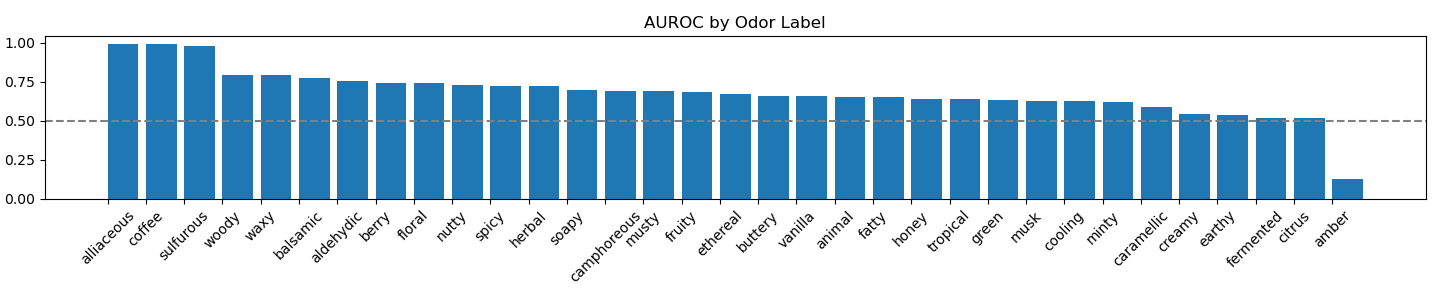
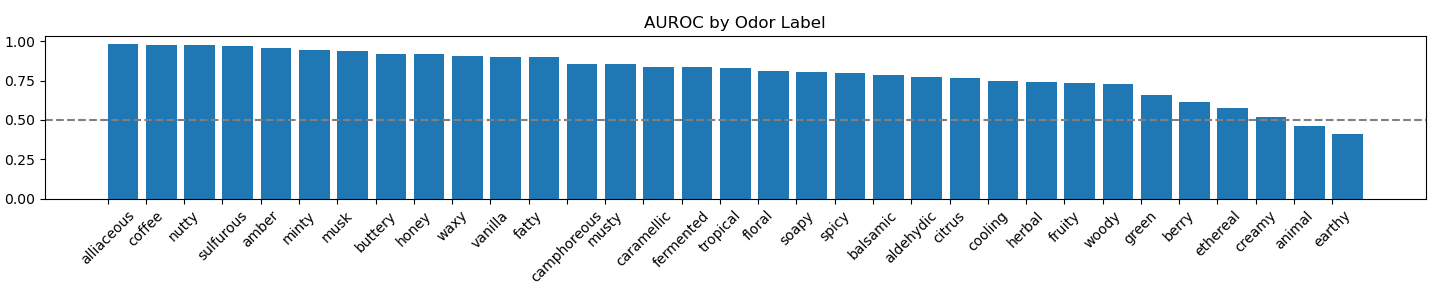
Transfering on single molecules

diff --git a/single/data.py b/single/data.py
@@ -1,4 +1,4 @@
-from pairing.data import PairData, Dataset, loader
+from pairing.data import PairData
 import pairing.data
 import torch_geometric as pyg
 import tqdm
@@ -13,18 +13,18 @@ test_fname = "testsingles.pt"
 # With very clever dictionary comprehension this could be easier.
 def get_data_s(singles,all_notes,data):
     notes_s = singles[data.smiles_s]
-    y_s = pairing.data.multi_hot(singles[data.smiles_s],all_notes)
-    data_s = pyg.data.Data(x=data.x_s,edge_index=data.edge_index_s,edge_attr=data.edge_attr_s,y=y_s,smiles=data.smiles_s)
+    y = pairing.data.multi_hot(singles[data.smiles_s],all_notes)
+    data_s = pyg.data.Data(x=data.x_s,edge_index=data.edge_index_s,edge_attr=data.edge_attr_s,y=y.float(),smiles=data.smiles_s)
     return data_s
 
 def get_data_t(singles,all_notes,data):
     notes_t = singles[data.smiles_t]
-    y_t = pairing.data.multi_hot(singles[data.smiles_t],all_notes)
-    data_t = pyg.data.Data(x=data.x_t,edge_index=data.edge_index_t,edge_attr=data.edge_attr_t,y=y_t,smiles=data.smiles_t)
+    y = pairing.data.multi_hot(singles[data.smiles_t],all_notes)
+    data_t = pyg.data.Data(x=data.x_t,edge_index=data.edge_index_t,edge_attr=data.edge_attr_t,y=y.float(),smiles=data.smiles_t)
     return data_t
 
 def build_dataset(is_train):
-    pair_data = Dataset(is_train=is_train)
+    pair_data = pairing.data.Dataset(is_train=is_train)
     singles = pairing.data.get_singles()
     all_notes = pairing.data.get_all_notes()
 
@@ -50,6 +50,10 @@ def build_dataset(is_train):
 
     return all_data
 
+def save(data_list, fname):
+    data, slices = pyg.data.InMemoryDataset.collate(data_list)
+    torch.save((data, slices), os.path.join(out_dir, fname))
+
 def build():
     all_notes = pairing.data.get_all_notes()
     singles = pairing.data.get_singles()
@@ -58,13 +62,13 @@ def build():
     test_data_list = build_dataset(False)
 
     print(f"Built train dataset of len = {len(train_data_list)}")
-    pairing.data.save(train_data_list,train_fname)
+    save(train_data_list,train_fname)
 
     print(f"Built test dataset of len = {len(test_data_list)}")
-    pairing.data.save(train_data_list,test_fname)
+    save(test_data_list,test_fname)
 
 # TODO: Refactor this into the pairing.data.Dataset
-class SinglesDataset(pyg.data.InMemoryDataset):
+class Dataset(pyg.data.InMemoryDataset):
     def __init__(self, is_train):
         super().__init__(out_dir)
         if is_train:
@@ -86,5 +90,6 @@ class SinglesDataset(pyg.data.InMemoryDataset):
     def num_edge_features(cls):
         return pairing.data.Dataset.num_edge_features()
 
-build()
+if __name__ == "__main__":
+    build()
 

diff --git a/analysis/receiver.py b/analysis/receiver.py
@@ -4,31 +4,34 @@ import pairing.data
 import numpy as np
 import torchmetrics
 import analysis.best
+import matplotlib.pyplot as plt
+
+def make_chart(pred,y):
+    all_notes = pairing.data.get_all_notes()
+
+    auroc = torchmetrics.classification.MultilabelAUROC(Dataset.num_classes(),average=None)
+    # Charting best and worst scores.
+    roc = torchmetrics.classification.MultilabelROC(2)
+    score = auroc(pred,y.int())
+    min_idx, min_val = np.nanargmin(score),np.nanmin(score)
+    max_idx, max_val = np.nanargmax(score),np.nanmax(score)
+    print(all_notes[min_idx],min_val)
+    print(all_notes[max_idx],max_val)
 
 
-all_notes = pairing.data.get_all_notes()
-
-pred, y = analysis.best.collate_test()
-
-auroc = torchmetrics.classification.MultilabelAUROC(Dataset.num_classes(),average=None)
-# Charting best and worst scores.
-roc = torchmetrics.classification.MultilabelROC(2)
-score = auroc(pred,y.int())
-min_idx, min_val = np.nanargmin(score),np.nanmin(score)
-max_idx, max_val = np.nanargmax(score),np.nanmax(score)
-print(all_notes[min_idx],min_val)
-print(all_notes[max_idx],max_val)
+    roc(pred[:,(min_idx,max_idx)],y[:,(min_idx,max_idx)].int())
+    fig_, ax_ = roc.plot()
 
 
-roc(pred[:,(min_idx,max_idx)],y[:,(min_idx,max_idx)].int())
-fig_, ax_ = roc.plot()
+    total_auroc = torchmetrics.classification.MultilabelAUROC(Dataset.num_classes())(pred,y.int())
+    min_label = f"\"{all_notes[min_idx]}\" w/ auroc = {score[min_idx]}"
+    max_label = f"\"{all_notes[max_idx]}\" w/ auroc = {score[max_idx]}"
+    ax_.legend([min_label,max_label])
+    plt.title(f"AUROC of hardest and easiest odor labels.\nAUROC across all labels = {total_auroc}.")
+    plt.xlabel("False Positive Rate")
+    plt.ylabel("True Positive Rate")
+    plt.show()
 
-
-total_auroc = torchmetrics.classification.MultilabelAUROC(Dataset.num_classes())(pred,y.int())
-min_label = f"\"{all_notes[min_idx]}\" w/ auroc = {score[min_idx]}"
-max_label = f"\"{all_notes[max_idx]}\" w/ auroc = {score[max_idx]}"
-ax_.legend([min_label,max_label])
-plt.title(f"AUROC of hardest and easiest odor labels.\nAUROC across all labels = {total_auroc}.")
-plt.xlabel("False Positive Rate")
-plt.ylabel("True Positive Rate")
-plt.show()
+if __name__ == "__main__":
+    pred, y = analysis.best.collate_test()
+    make_chart(pred,y)

diff --git a/main.py b/main.py
@@ -91,7 +91,7 @@ class GCN(torch.nn.Module):
         else:
             raise KeyError(f"Received invalid architecture = {architecture}.")
 
-    def forward(self, x, edge_index, edge_attr, batch_index):
+    def forward(self, x, edge_index, edge_attr, batch, *args, **kwargs):
         x = self.pad(x)
         for _ in range(self.num_convs):
             if self.architecture == "NNConv":
@@ -99,9 +99,9 @@ class GCN(torch.nn.Module):
             else:
                 x = self.gcn(x, edge_index)
 
-        pooled = torch.cat([pyg.nn.pool.global_add_pool(x,batch_index),pyg.nn.pool.global_mean_pool(x,batch_index)],dim=1)
+        pooled = torch.cat([pyg.nn.pool.global_add_pool(x,batch),pyg.nn.pool.global_mean_pool(x,batch)],dim=1)
         if self.aggr_steps > 0:
-            pooled = self.readout(x, index=batch_index)
+            pooled = self.readout(x, index=batch)
 
         return self.post_mp(pooled)
 
@@ -155,15 +155,15 @@ def do_train(params):
     def do_train_epoch():
         model.train()
         losses = []
-        for batch in train_loader:
-            batch.to(device)
+        for batch_data in train_loader:
+            batch_data.to(device)
             optimizer.zero_grad()
 
-            pred = model(**batch.to_dict())
+            pred = model(**batch_data.to_dict())
 
-            loss = loss_fn(pred, batch.y)
+            loss = loss_fn(pred, batch_data.y)
             loss.backward()
-            losses.append(loss * len(batch.y))
+            losses.append(loss * len(batch_data.y))
 
             optimizer.step()
 
@@ -173,13 +173,13 @@ def do_train(params):
         model.eval()
         preds = []
         ys = []
-        for batch in test_loader:
-            batch.to(device)
+        for batch_data in test_loader:
+            batch_data.to(device)
             with torch.no_grad():
-                pred = model(**batch.to_dict())
+                pred = model(**batch_data.to_dict())
 
             preds.append(pred)
-            ys.append(batch.y)
+            ys.append(batch_data.y)
 
         return torch.cat(preds, dim=0), torch.cat(ys, dim=0)
 

diff --git a/single/model.py b/single/model.py
@@ -1,0 +1,67 @@
+from main import MixturePredictor, GCN
+import single.data
+import pairing.data
+import analysis.best
+import torch_geometric as pyg
+import torch
+import numpy as np
+import sklearn
+import sklearn.linear_model
+import scipy
+import torchmetrics
+import analysis.auroc
+
+class LogitRegression(sklearn.linear_model.LinearRegression):
+    EPS = 1e-5
+
+    def __init__(self):
+        super().__init__()
+
+    def _clip01(self,arr):
+        return np.asarray(arr).clip(self.EPS,1-self.EPS)
+
+    def fit(self, x, p):
+        p = self._clip01(p)
+        y = scipy.special.logit(p)
+        return super().fit(x, y)
+
+    def predict(self, x):
+        y = super().predict(x)
+        return scipy.special.expit(y)
+
+train = single.data.Dataset(is_train=True)
+test = single.data.Dataset(is_train=False)
+
+model = analysis.best.model.gcn
+model.eval()
+
+def collate(dataset):
+    loader = pyg.loader.DataLoader(dataset,batch_size=32)
+    preds = []
+    ys = []
+    for batch in loader:
+        with torch.no_grad():
+            pred = model(**batch.to_dict())
+
+        preds.append(pred)
+        y = batch.y.reshape((len(batch),-1))
+        ys.append(y)
+
+    return torch.cat(preds, dim=0).numpy(), torch.cat(ys, dim=0).numpy()
+
+
+train_x, train_y = collate(train)
+test_x, test_y = collate(test)
+
+lgr = LogitRegression().fit(train_x,train_y)
+
+test_pred = torch.tensor(lgr.predict(test_x))
+test_y = torch.tensor(test_y)
+
+auroc = torchmetrics.classification.MultilabelAUROC(single.data.Dataset.num_classes())
+print(auroc(test_pred,torch.tensor(test_y).int()))
+analysis.auroc.make_chart(test_pred,test_y)
+
+
+
+

diff --git a/analysis/auroc.py b/analysis/auroc.py
@@ -7,21 +7,23 @@ import analysis.best
 
 import matplotlib.pyplot as plt
 
-all_notes = np.array(pairing.data.get_all_notes())
+def make_chart(pred,y):
+    all_notes = np.array(pairing.data.get_all_notes())
+    auroc = torchmetrics.classification.MultilabelAUROC(Dataset.num_classes(),average=None)
+    scores = auroc(pred,y.int()).numpy()
 
-pred, y = analysis.best.collate_test()
+    idcs = np.flip(np.argsort(scores))
+    scores = scores[idcs]
+    all_notes = all_notes[idcs]
 
-auroc = torchmetrics.classification.MultilabelAUROC(Dataset.num_classes(),average=None)
-scores = auroc(pred,y.int()).numpy()
+    plt.figure(figsize=(15, 3))
+    plt.bar(all_notes,scores,align='edge')
+    plt.axhline(y=0.5,color='grey',linestyle='dashed')
+    plt.xticks(rotation=45)
+    plt.title("AUROC by Odor Label")
+    plt.tight_layout()
+    plt.show()
 
-idcs = np.flip(np.argsort(scores))
-scores = scores[idcs]
-all_notes = all_notes[idcs]
-
-plt.figure(figsize=(15, 3))
-plt.bar(all_notes,scores,align='edge')
-plt.axhline(y=0.5,color='grey',linestyle='dashed')
-plt.xticks(rotation=45)
-plt.title("AUROC by Odor Label")
-plt.tight_layout()
-plt.show()
+if __name__ == "__main__":
+    pred, y = analysis.best.collate_test()
+    make_chart(pred,y)

diff --git a/analysis/best.py b/analysis/best.py
@@ -11,10 +11,10 @@ ms = torch.load(f"runs/{best_trial}/model.pt",map_location=torch.device('cpu'))
 # So we build a new model with the same params and then build.
 model = MixturePredictor(embedding_size=832,num_linear=2,num_convs=3,aggr_steps=0,architecture="GIN")
 model.load_state_dict(ms.state_dict())
-test_loader = loader(Dataset(is_train=False), batch_size=128)
-device = "cpu"
 
 def collate_test():
+    device = "cpu"
+    test_loader = loader(Dataset(is_train=False), batch_size=128)
     model.eval()
     preds = []
     ys = []

diff --git a/pairing/data.py b/pairing/data.py
@@ -79,7 +79,7 @@ def get_singles():
     ]
 
     print(len(usable))
-    return {data["smiles"]:data["notes"] for data in usable}
+    return {data["smiles"]:set(data["notes"]) for data in usable}
 
 
 def get_pairings():
